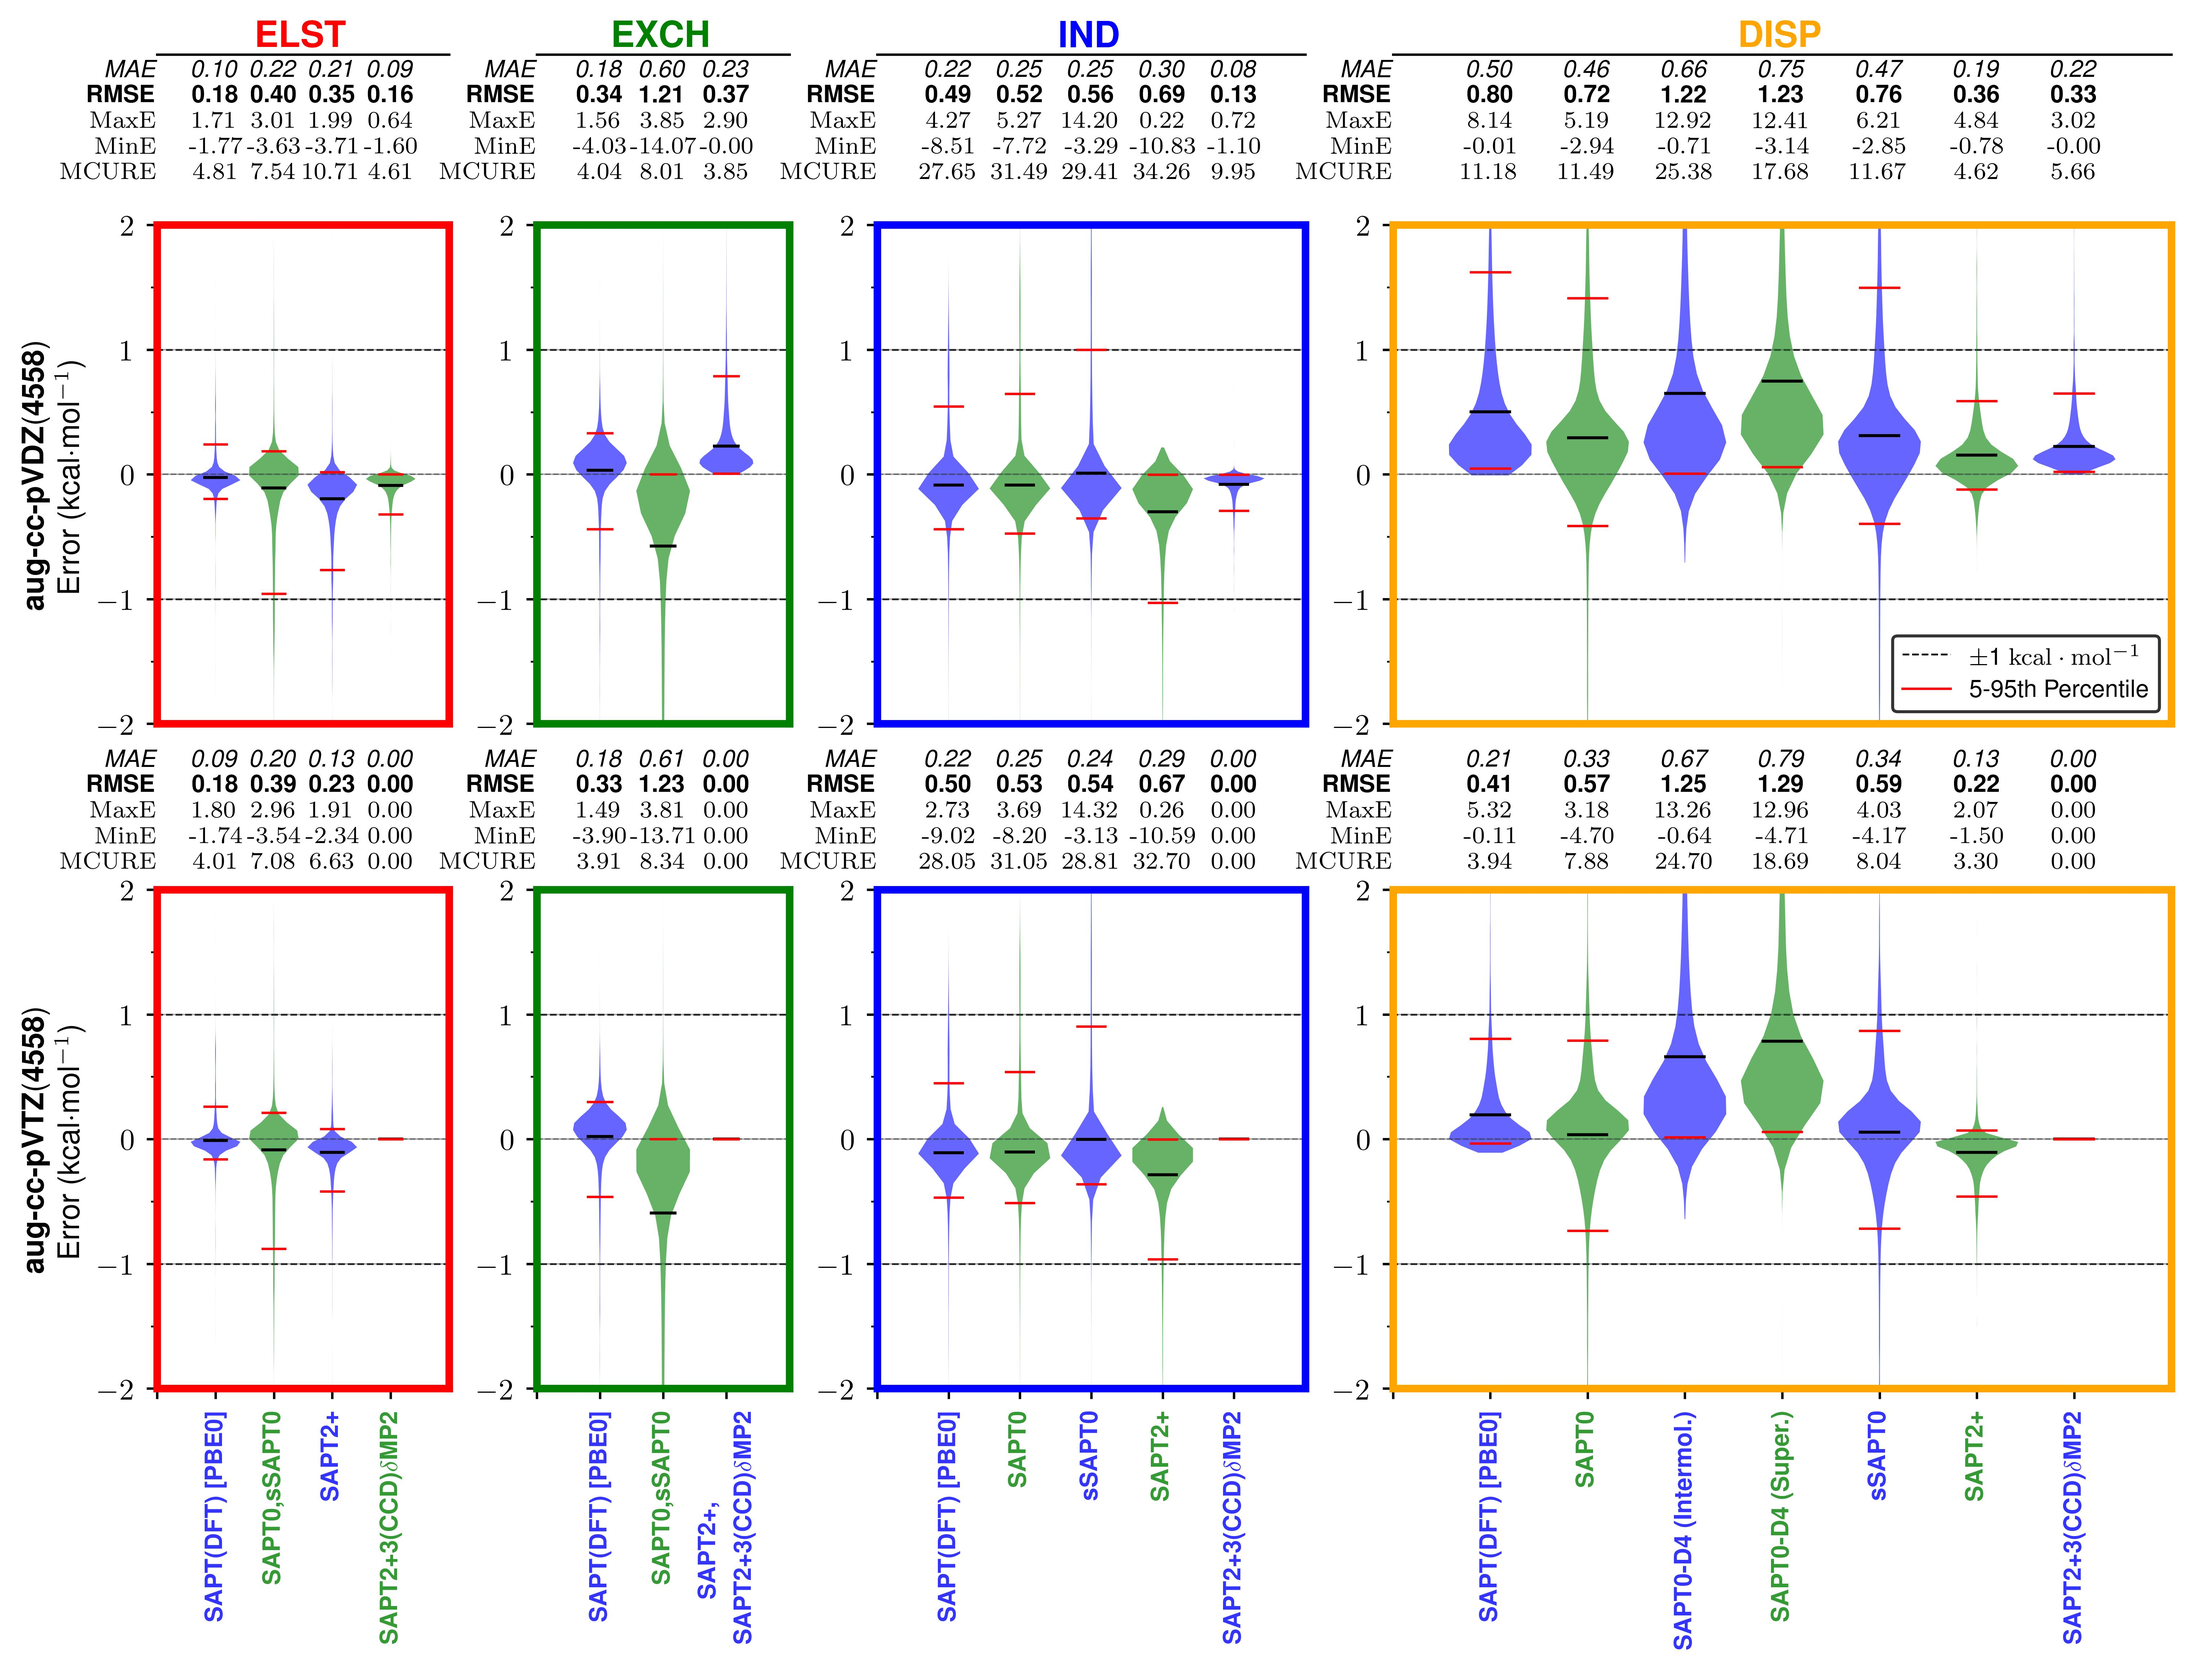
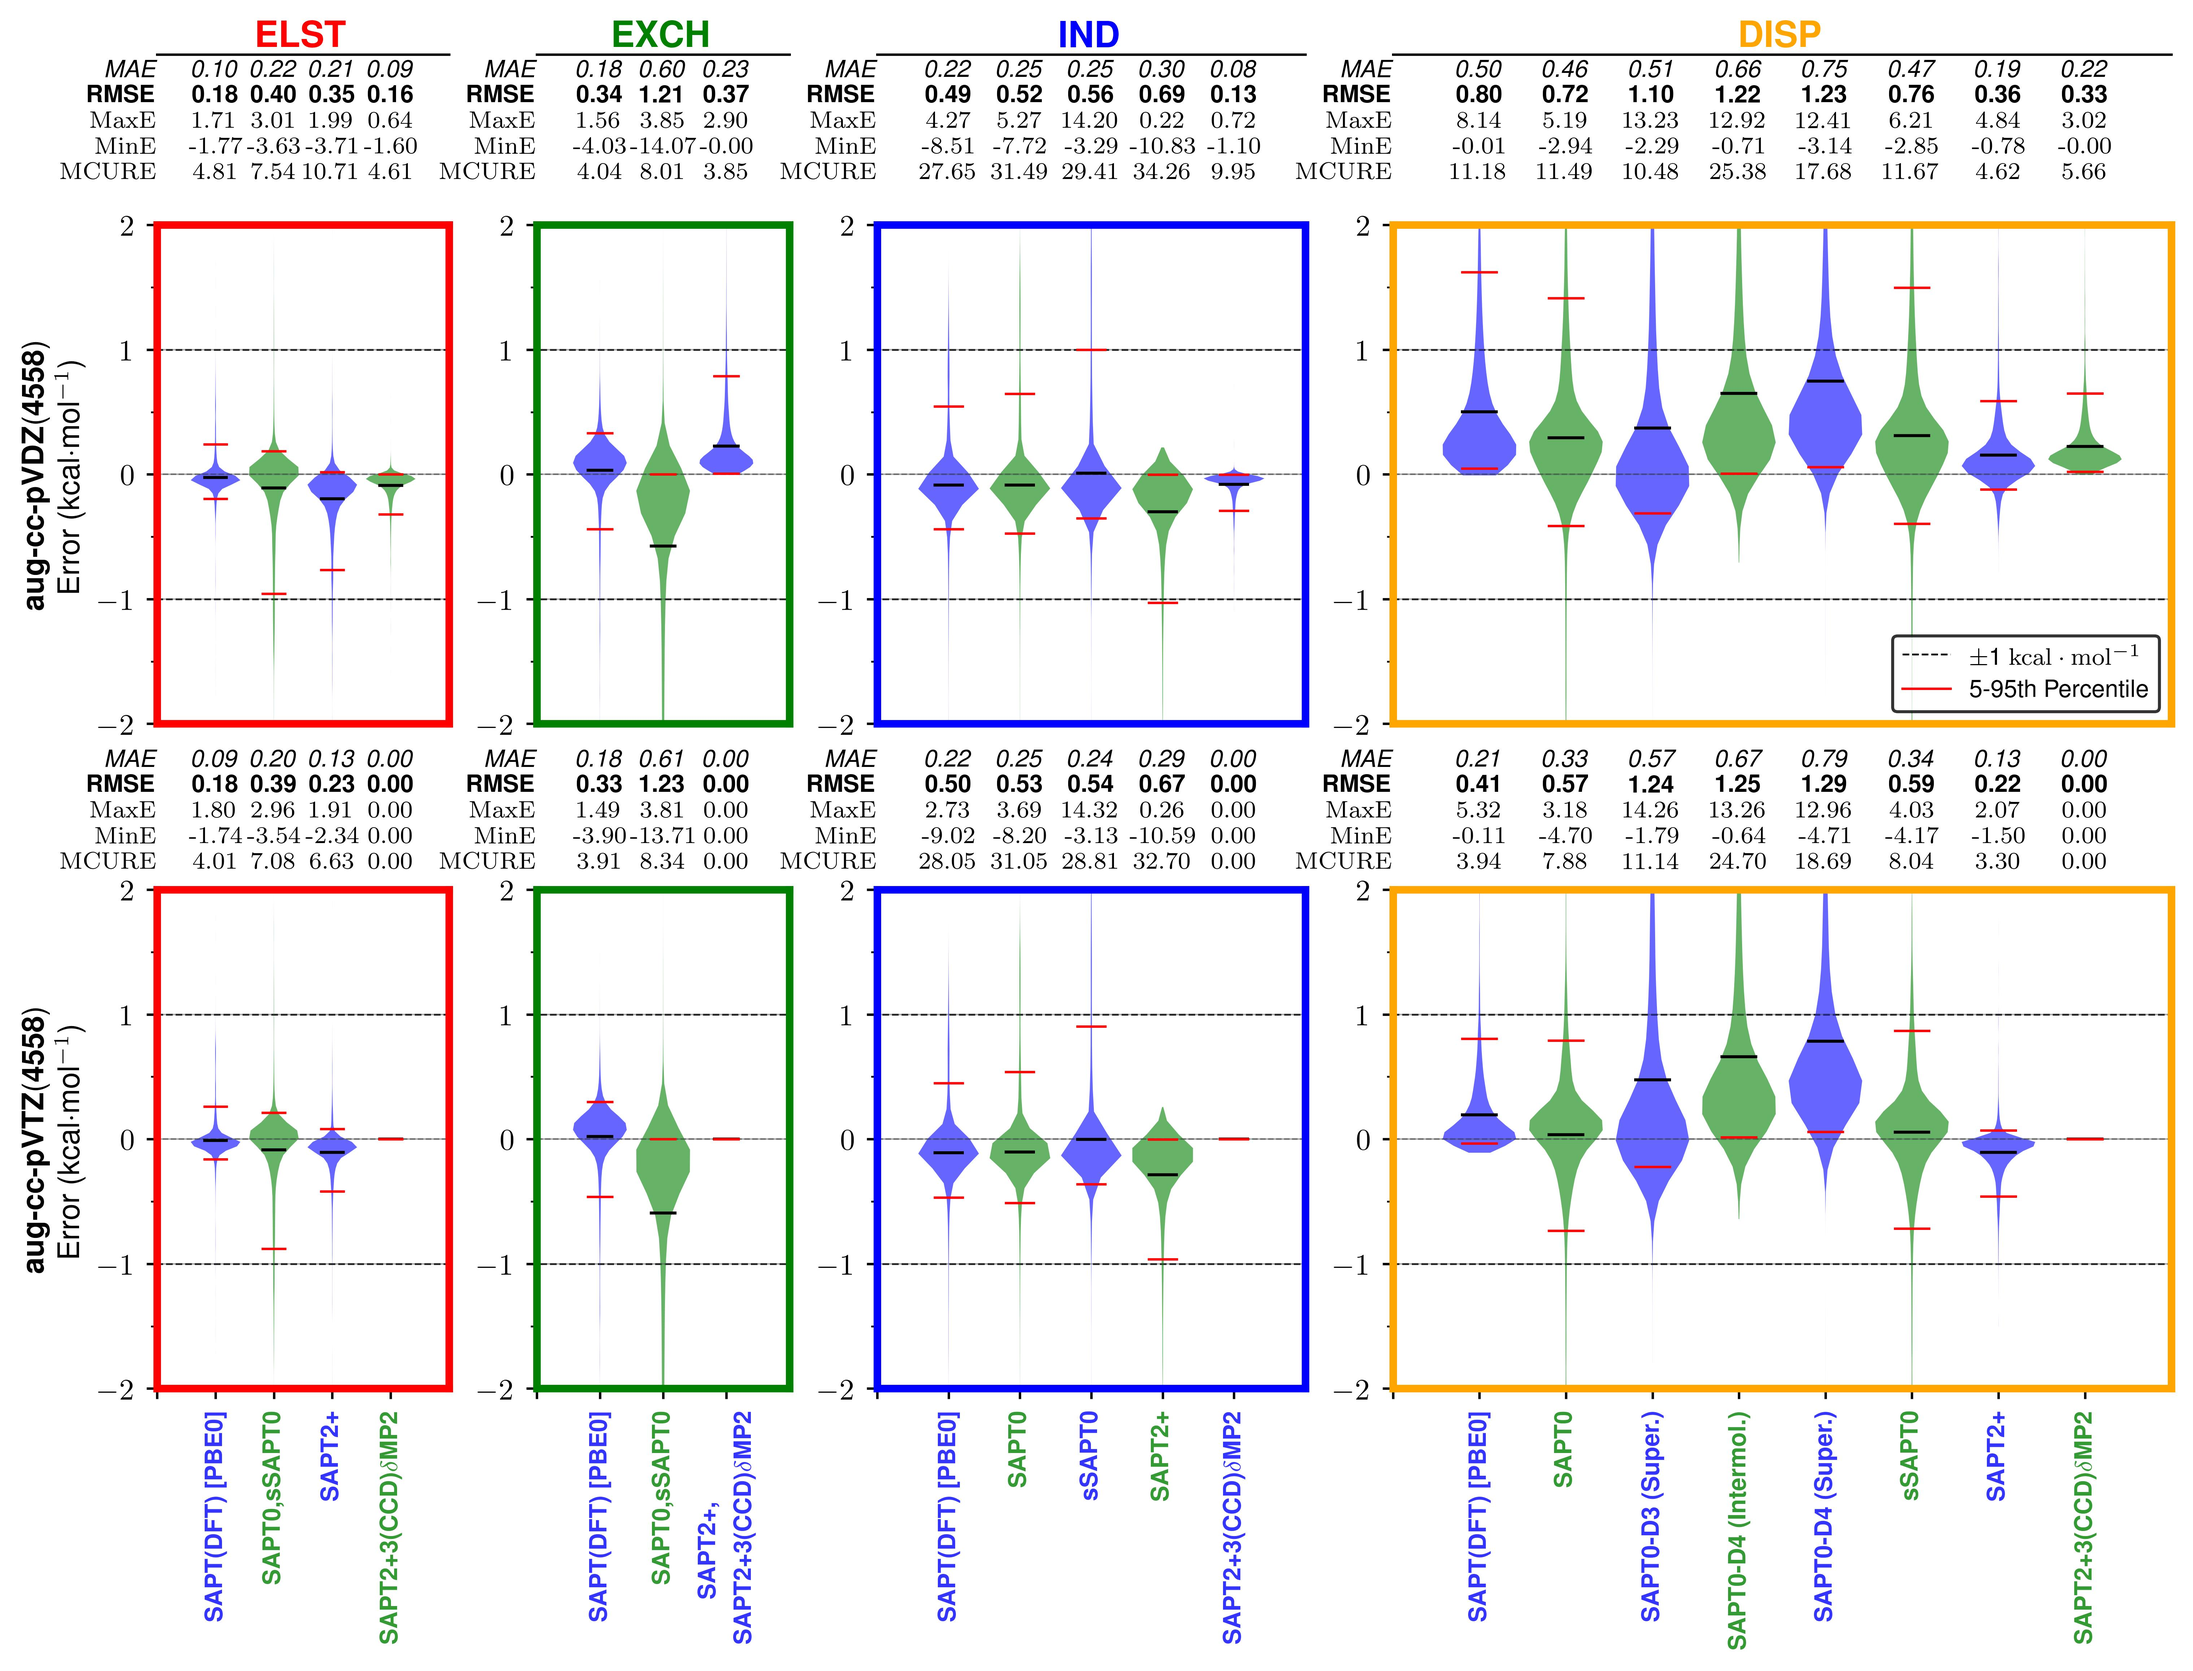
components for sapt0-d3/d4

diff --git a/src/plotting.py b/src/plotting.py
@@ -806,7 +806,7 @@ def compute_d3_from_opt_params(
             lambda row: jeff.compute_BJ_CPP(
                 params_d3,
                 row["D3Data"],
-            ),
+            ) if row['D3Data'] is not None else np.nan,
             axis=1,
         )
         print(df[f"-D3 ({i[1]})"])
@@ -1520,6 +1520,10 @@ def plotting_setup_dft_ddft(
         df_disp = pd.read_pickle("./dfs/dispml.pkl")
         df_disp = df_disp[["D3-ML", "system_id"]].copy()
         df = df.merge(df_disp, on="system_id")
+
+        df_d3data = pd.read_pickle("./dfs/los_d3data.pkl")
+        df_d3data = df_d3data[["D3Data", "system_id"]].copy()
+        df = df.merge(df_d3data, on="system_id")
         basis_set = "adz"
         functional = "pbe0"
         df = prepare_saptdft_columns(df, "pbe0", "adz")
@@ -4718,7 +4722,7 @@ def violin_plots_multi_components_sapt0d4(df):
             "SAPT0-D4 (Super.)": "SAPT0-D4 (Super.) DISP ENERGY Error",
         },
         {
-            "SAPT0-D3 (Super.)": "SAPT0-D3 DISP ENERGY Error",
+            "SAPT0-D3 (Super.)": "SAPT0-D3 (Super.) DISP ENERGY Error",
         },
     ]
     mcure_labels = {
@@ -4823,7 +4827,7 @@ def violin_plots_multi_components_sapt0d4(df):
         df_labels_and_columns_disp={
             "SAPT(DFT) [PBE0]": "SAPT(DFT) [PBE0] DISP ENERGY Error",
             "SAPT0": "SAPT0 DISP ENERGY Error",
-            "SAPT0-D3 (Super.)": "SAPT0-D3 DISP ENERGY Error",
+            "SAPT0-D3 (Super.)": "SAPT0-D3 (Super.) DISP ENERGY Error",
             "SAPT0-D4 (Intermol.)": "SAPT0-D4 (Intermol.) DISP ENERGY Error",
             "SAPT0-D4 (Super.)": "SAPT0-D4 (Super.) DISP ENERGY Error",
             "sSAPT0": "SSAPT0 DISP ENERGY Error",
@@ -5041,7 +5045,7 @@ def violin_plots_multi_components_subset_sapt0d4(df):
             "SAPT0-D4 (Super.)": "SAPT0-D4 (Super.) DISP ENERGY Error",
         },
         {
-            "SAPT0-D3 (Super.)": "SAPT0-D3 DISP ENERGY Error",
+            "SAPT0-D3 (Super.)": "SAPT0-D3 (Super.) DISP ENERGY Error",
         },
     ]
     mcure_labels = {
@@ -5146,7 +5150,7 @@ def violin_plots_multi_components_subset_sapt0d4(df):
         df_labels_and_columns_disp={
             "SAPT(DFT) [PBE0]": "SAPT(DFT) [PBE0] DISP ENERGY Error",
             "SAPT0": "SAPT0 DISP ENERGY Error",
-            "SAPT0-D3 (Super.)": "SAPT0-D3 DISP ENERGY Error",
+            "SAPT0-D3 (Super.)": "SAPT0-D3 (Super.) DISP ENERGY Error",
             "SAPT0-D4 (Intermol.)": "SAPT0-D4 (Intermol.) DISP ENERGY Error",
             "SAPT0-D4 (Super.)": "SAPT0-D4 (Super.) DISP ENERGY Error",
             "sSAPT0": "SSAPT0 DISP ENERGY Error",
@@ -6041,6 +6045,23 @@ def violin_plots_multi_components_subset(df, limit_to_column_not_nan=None):
     return
 
 def plot_components_sapt0_saptdft(df):
+    df = compute_d3_from_opt_params(
+        df,
+        bases=[
+            [
+                "SAPT0_adz_3_IE",
+                "SAPT0_adz_3_IE",
+                "sadz",
+                "SAPT0_adz_3_IE",
+            ],
+            [
+                "SAPT0_atz_3_IE",
+                "SAPT0_atz_3_IE",
+                "satz",
+                "SAPT0_atz_3_IE",
+            ],
+        ],
+    )
     df = compute_d4_from_opt_params(
         df,
         bases=[
@@ -6058,23 +6079,6 @@ def plot_components_sapt0_saptdft(df):
             ],
         ],
         disp_compute=locald4.compute_disp_2B_BJ_dimer_supra,
-    )
-    df = compute_d3_from_opt_params(
-        df,
-        bases=[
-            [
-                "SAPT0_adz_3_IE",
-                "SAPT0_adz_3_IE",
-                "sadz",
-                "SAPT0_adz_3_IE",
-            ],
-            [
-                "SAPT0_atz_3_IE",
-                "SAPT0_atz_3_IE",
-                "satz",
-                "SAPT0_atz_3_IE",
-            ],
-        ],
     )
     violin_plots_multi_components_subset_sapt0d4(df)
     violin_plots_multi_components_sapt0d4(df)
